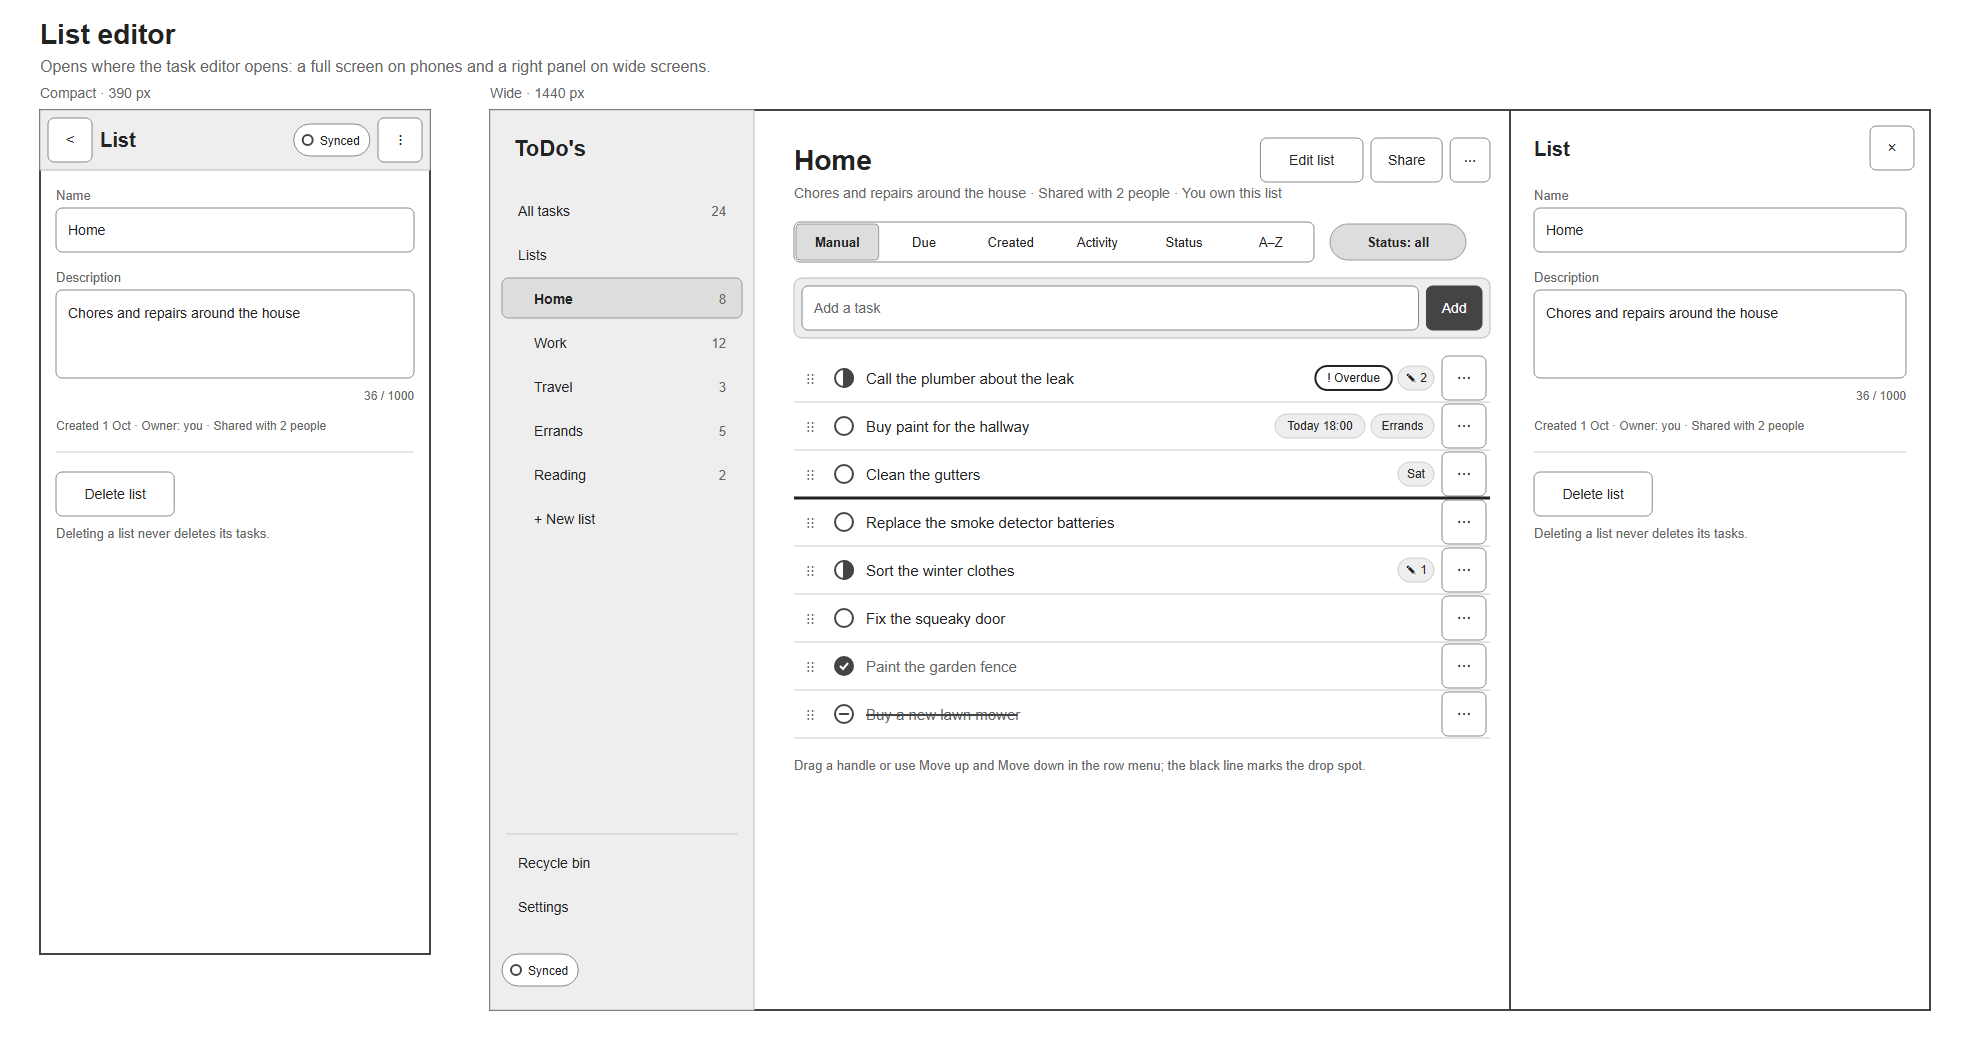
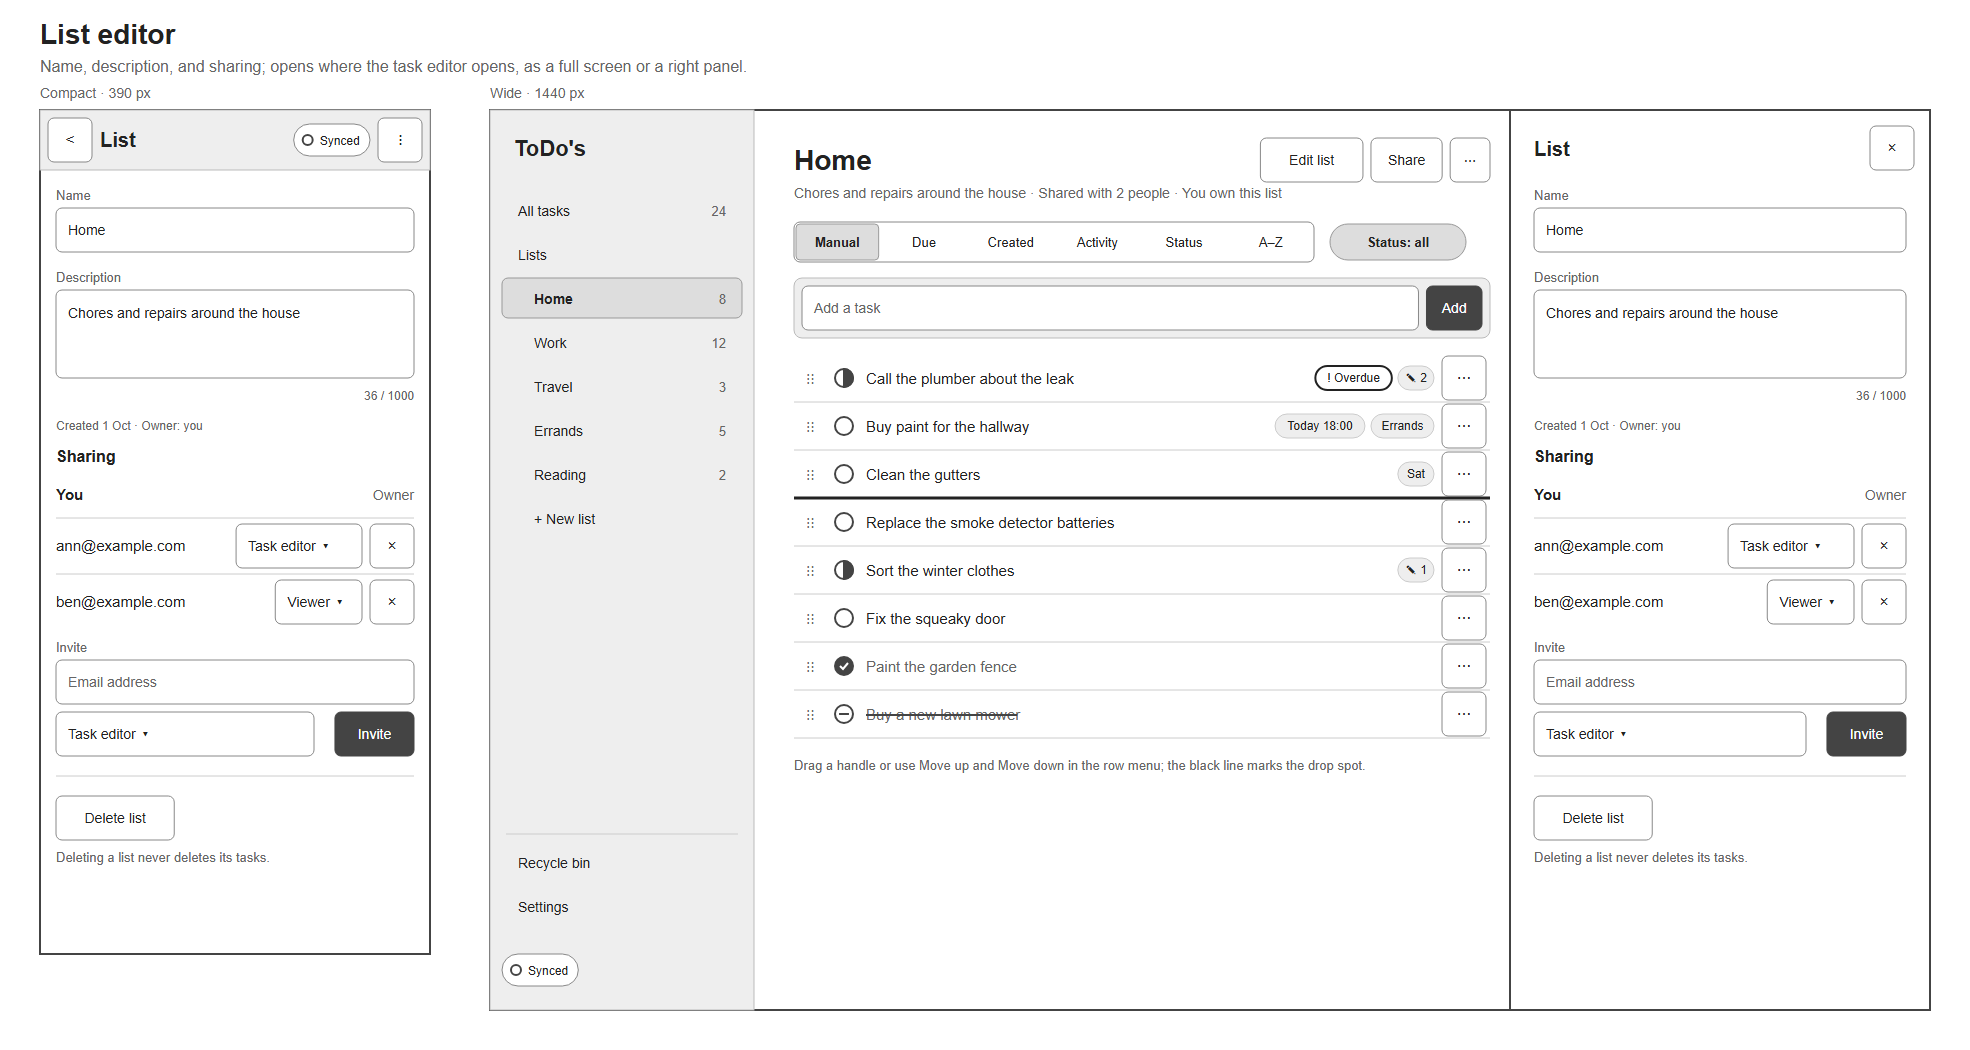
Recorded T0005 review round 2 rework and requested review round 3.

diff --git a/tasks/T0005-draw-a-low-fidelity-svg-wireframe-per-screen/technical-spec.md b/tasks/T0005-draw-a-low-fidelity-svg-wireframe-per-screen/technical-spec.md
@@ -13,8 +13,7 @@
 - `list.svg`: one list in manual order, with order buttons and drag handles.
 - `lists.svg`: lists overview.
 - `task-editor.svg`: the task editor, full screen and as a right panel.
-- `list-editor.svg`: the list editor dialog.
-- `sharing.svg`: the sharing dialog.
+- `list-editor.svg`: the list editor panel, with its Sharing section.
 - `recycle-bin.svg`: the recycle bin with an in-row confirmation.
 - `settings.svg`: settings in local mode.
 - `sync-log.svg`: the sync log.
@@ -29,10 +28,10 @@
 - CHANGELOG.md
 
 Mechanical command: `python scripts/draw-wireframes.py docs/img/ui`
-Size estimate: 5 files, 800 lines, plus 12 generated SVG files
+Size estimate: 5 files, 800 lines, plus 11 generated SVG files
 
 ### Tests
-- Unit: the script writes exactly the 12 listed SVG files into a given directory.
+- Unit: the script writes exactly the 11 listed SVG files into a given directory.
 - Unit: each SVG parses as XML, with a white background and the two labeled frames.
 - Unit: every shape and text box of a frame lies inside that frame, so nothing overflows 390 px.
 - Unit: each SVG uses only gray fill and stroke colors.

diff --git a/tasks/T0005-draw-a-low-fidelity-svg-wireframe-per-screen/validation-proof.md b/tasks/T0005-draw-a-low-fidelity-svg-wireframe-per-screen/validation-proof.md
@@ -14,19 +14,19 @@ ERROR tests/test_draw_wireframes.py::test_output_is_reproducible - subprocess...
 ```
 
 ### Green Phase
-After review round 1, the rework reran every check.
+After review round 2, the rework reran every check.
 
 Command: `python scripts/draw-wireframes.py docs/img/ui` (exit code 0)
 
 ```text
-Wrote 12 wireframes to docs\img\ui
+Wrote 11 wireframes to docs\img\ui
 ```
 
 Command: `python -m pytest tests -q` (exit code 0)
 
 ```text
-......................................                                   [100%]
-38 passed in 0.41s
+...................................                                      [100%]
+35 passed in 0.51s
 ```
 
 Command: `ruff check scripts tests` (exit code 0)
@@ -56,4 +56,4 @@ Finished lint-markdown check in 0.1s with status: succeeded
 
 ### Visual Check
 Chromium rendered every SVG from a file URL with no console errors; renders are in [renders](renders/).
-Each render was inspected for overlaps, clipping, and truncation at both widths, before and after the rework.
+Each render was inspected for overlaps, clipping, and truncation at both widths, after each rework round.

diff --git a/tasks/T0005-draw-a-low-fidelity-svg-wireframe-per-screen.md b/tasks/T0005-draw-a-low-fidelity-svg-wireframe-per-screen.md
@@ -11,7 +11,7 @@ review: human
 preview: none
 protocol: standard
 review_status: pending
-review_round: 2
+review_round: 3
 ---
 # T0005: Draw a low-fidelity SVG wireframe per screen of docs/specs/ui-design.md, showing 390 px and 1440 px side by side
 
@@ -80,4 +80,17 @@ See technical-spec.md for files, size, screens, and tests.
 
 - [2026-11-03] **[Review]**
   Round 2 requested (mode: human).
+
+- [2026-11-03] **[Review]**
+  Round 2 rejected by @gpellicciotta: Round 2: keep completed muted without strike-through; move sharing into the list editor panel.
+
+- [2026-11-03] **[Implement]**
+  Moved sharing into the list editor panel and dropped sharing.svg; completed tasks stay muted without strike-through.
+  - Tests now expect 11 wireframes.
+
+- [2026-11-03] **[Visual]**
+  Re-rendered all 11 SVGs without console errors and inspected the list editor.
+
+- [2026-11-03] **[Review]**
+  Round 3 requested (mode: human).
 

diff --git a/tasks/T0005-draw-a-low-fidelity-svg-wireframe-per-screen/review-findings-2.md b/tasks/T0005-draw-a-low-fidelity-svg-wireframe-per-screen/review-findings-2.md
@@ -1,0 +1,12 @@
+---
+task: T0005
+round: 2
+verdict: rejected
+reviewer: "@gpellicciotta"
+reviewed_at: 2026-11-03T22:45:04Z
+reviewed_commit: "ed5dd51"
+---
+# Review Findings: Task T0005 (Round 2)
+
+## Summary
+Round 2: keep completed muted without strike-through; move sharing into the list editor panel.
